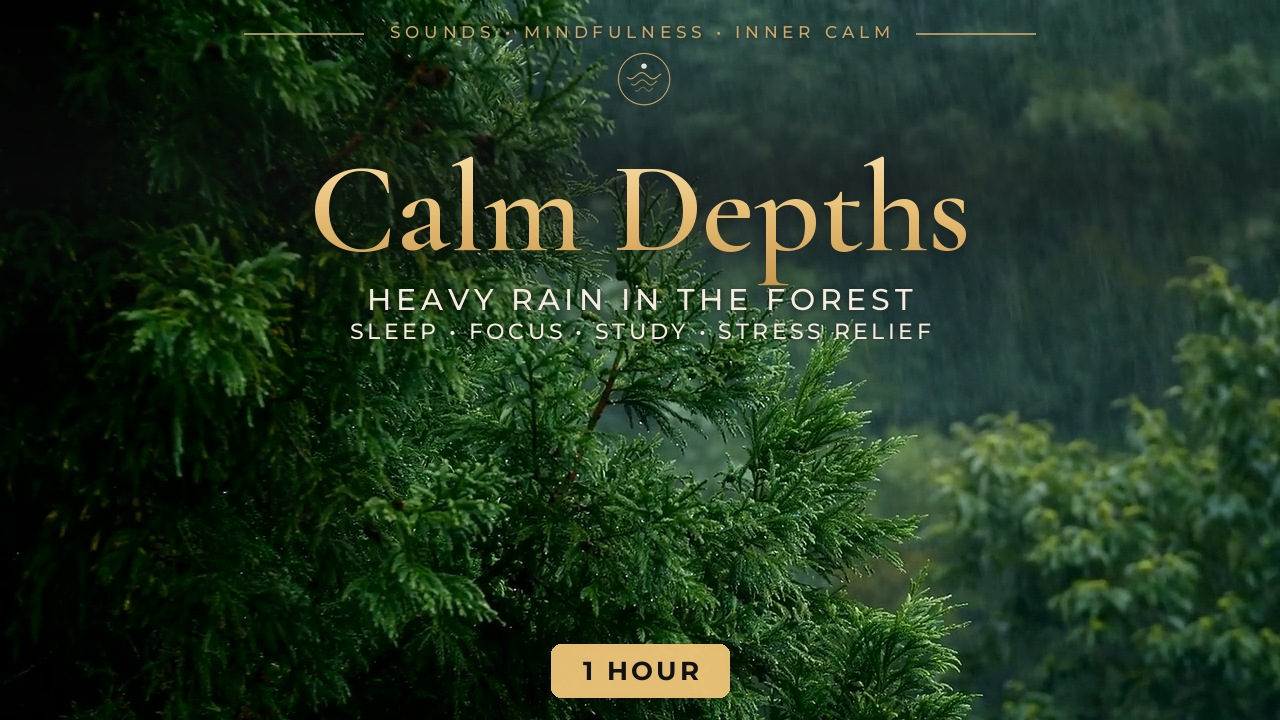
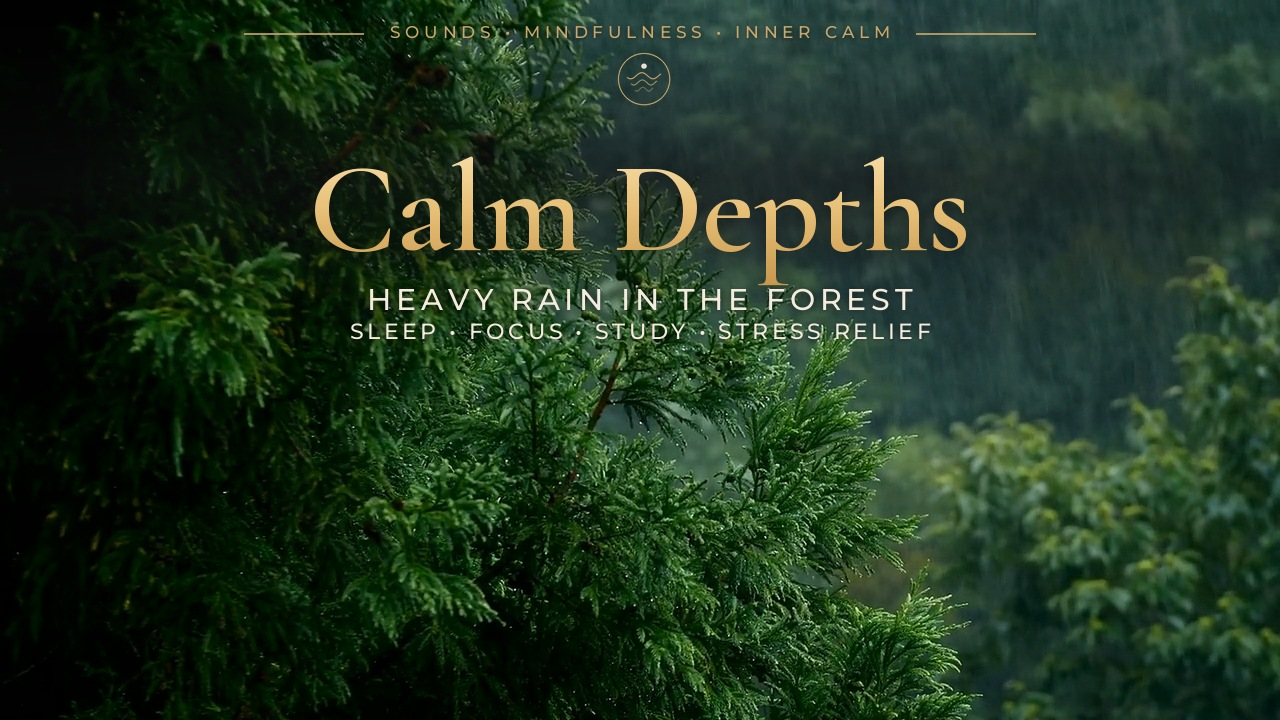
Rainforest thumbnail without length badge; thumbnail.py supports --length ""
Claude-Session: https://claude.ai/code/session_01UoX6HHU2tdSLXxaQQvoeaD

Changed region(s): [[0.4062, 0.8861, 0.5938, 0.9778]]

diff --git a/calm-depths/template/thumbnail.py b/calm-depths/template/thumbnail.py
@@ -60,12 +60,13 @@ def main():
         t = gold_text("Calm Depths", B.serif(Y["size"], 600)); img.alpha_composite(t, ((W - t.width) // 2, Y["title"]))
         tp = B.tracked(a.topic, B.sans(30, 500), 0.16, B.CREAM); img.alpha_composite(tp, ((W - tp.width) // 2, Y["topic"]))
         us = B.tracked(a.uses, B.sans(22, 500), 0.16, B.CREAM); img.alpha_composite(us, ((W - us.width) // 2, Y["uses"]))
-        f = B.sans(26, 700); tw = f.getlength(a.length) + 0.12 * 26 * (len(a.length) - 1)
-        pill = Image.new("RGBA", (int(tw + 64), 54), (0, 0, 0, 0)); d = ImageDraw.Draw(pill)
-        d.rounded_rectangle([0, 0, pill.width - 1, 53], radius=10, fill=(236, 196, 120, 245))
-        txt = B.tracked(a.length, f, 0.12, B.CHARCOAL, shadow=False)
-        pill.alpha_composite(txt, ((pill.width - txt.width) // 2, (54 - txt.height) // 2))
-        img.alpha_composite(B.add_shadow(pill, alpha=0.5), ((W - pill.width) // 2 - 8, Y["pill"]))
+        if a.length:  # pass --length "" for no length badge
+            f = B.sans(26, 700); tw = f.getlength(a.length) + 0.12 * 26 * (len(a.length) - 1)
+            pill = Image.new("RGBA", (int(tw + 64), 54), (0, 0, 0, 0)); d = ImageDraw.Draw(pill)
+            d.rounded_rectangle([0, 0, pill.width - 1, 53], radius=10, fill=(236, 196, 120, 245))
+            txt = B.tracked(a.length, f, 0.12, B.CHARCOAL, shadow=False)
+            pill.alpha_composite(txt, ((pill.width - txt.width) // 2, (54 - txt.height) // 2))
+            img.alpha_composite(B.add_shadow(pill, alpha=0.5), ((W - pill.width) // 2 - 8, Y["pill"]))
     img = header(img, y=18 if not a.compact else 12)
     img.convert("RGB").save(a.out, quality=93); print("wrote", a.out)
 

diff --git a/calm-depths/exports/CalmDepths_Rainforest_YouTube_upload.md b/calm-depths/exports/CalmDepths_Rainforest_YouTube_upload.md
@@ -1,9 +1,9 @@
 # Rain in the forest video: YouTube upload sheet
 
-**Thumbnail:** `thumbnails/CalmDepths_Thumb_Rainforest.jpg` (says "1 HOUR"; ask for a 2 or 3 HOUR version if you make it longer)
+**Thumbnail:** `thumbnails/CalmDepths_Thumb_Rainforest.jpg`
 
 ## Title
-Heavy Rain in the Forest 🌧 | Relaxing Rain Sounds for Sleep, Focus & Stress Relief | 1 Hour
+Heavy Rain in the Forest 🌧 | Relaxing Rain Sounds for Sleep, Focus & Stress Relief
 
 ## Description
 Escape the noise. Find your calm. 🌧
